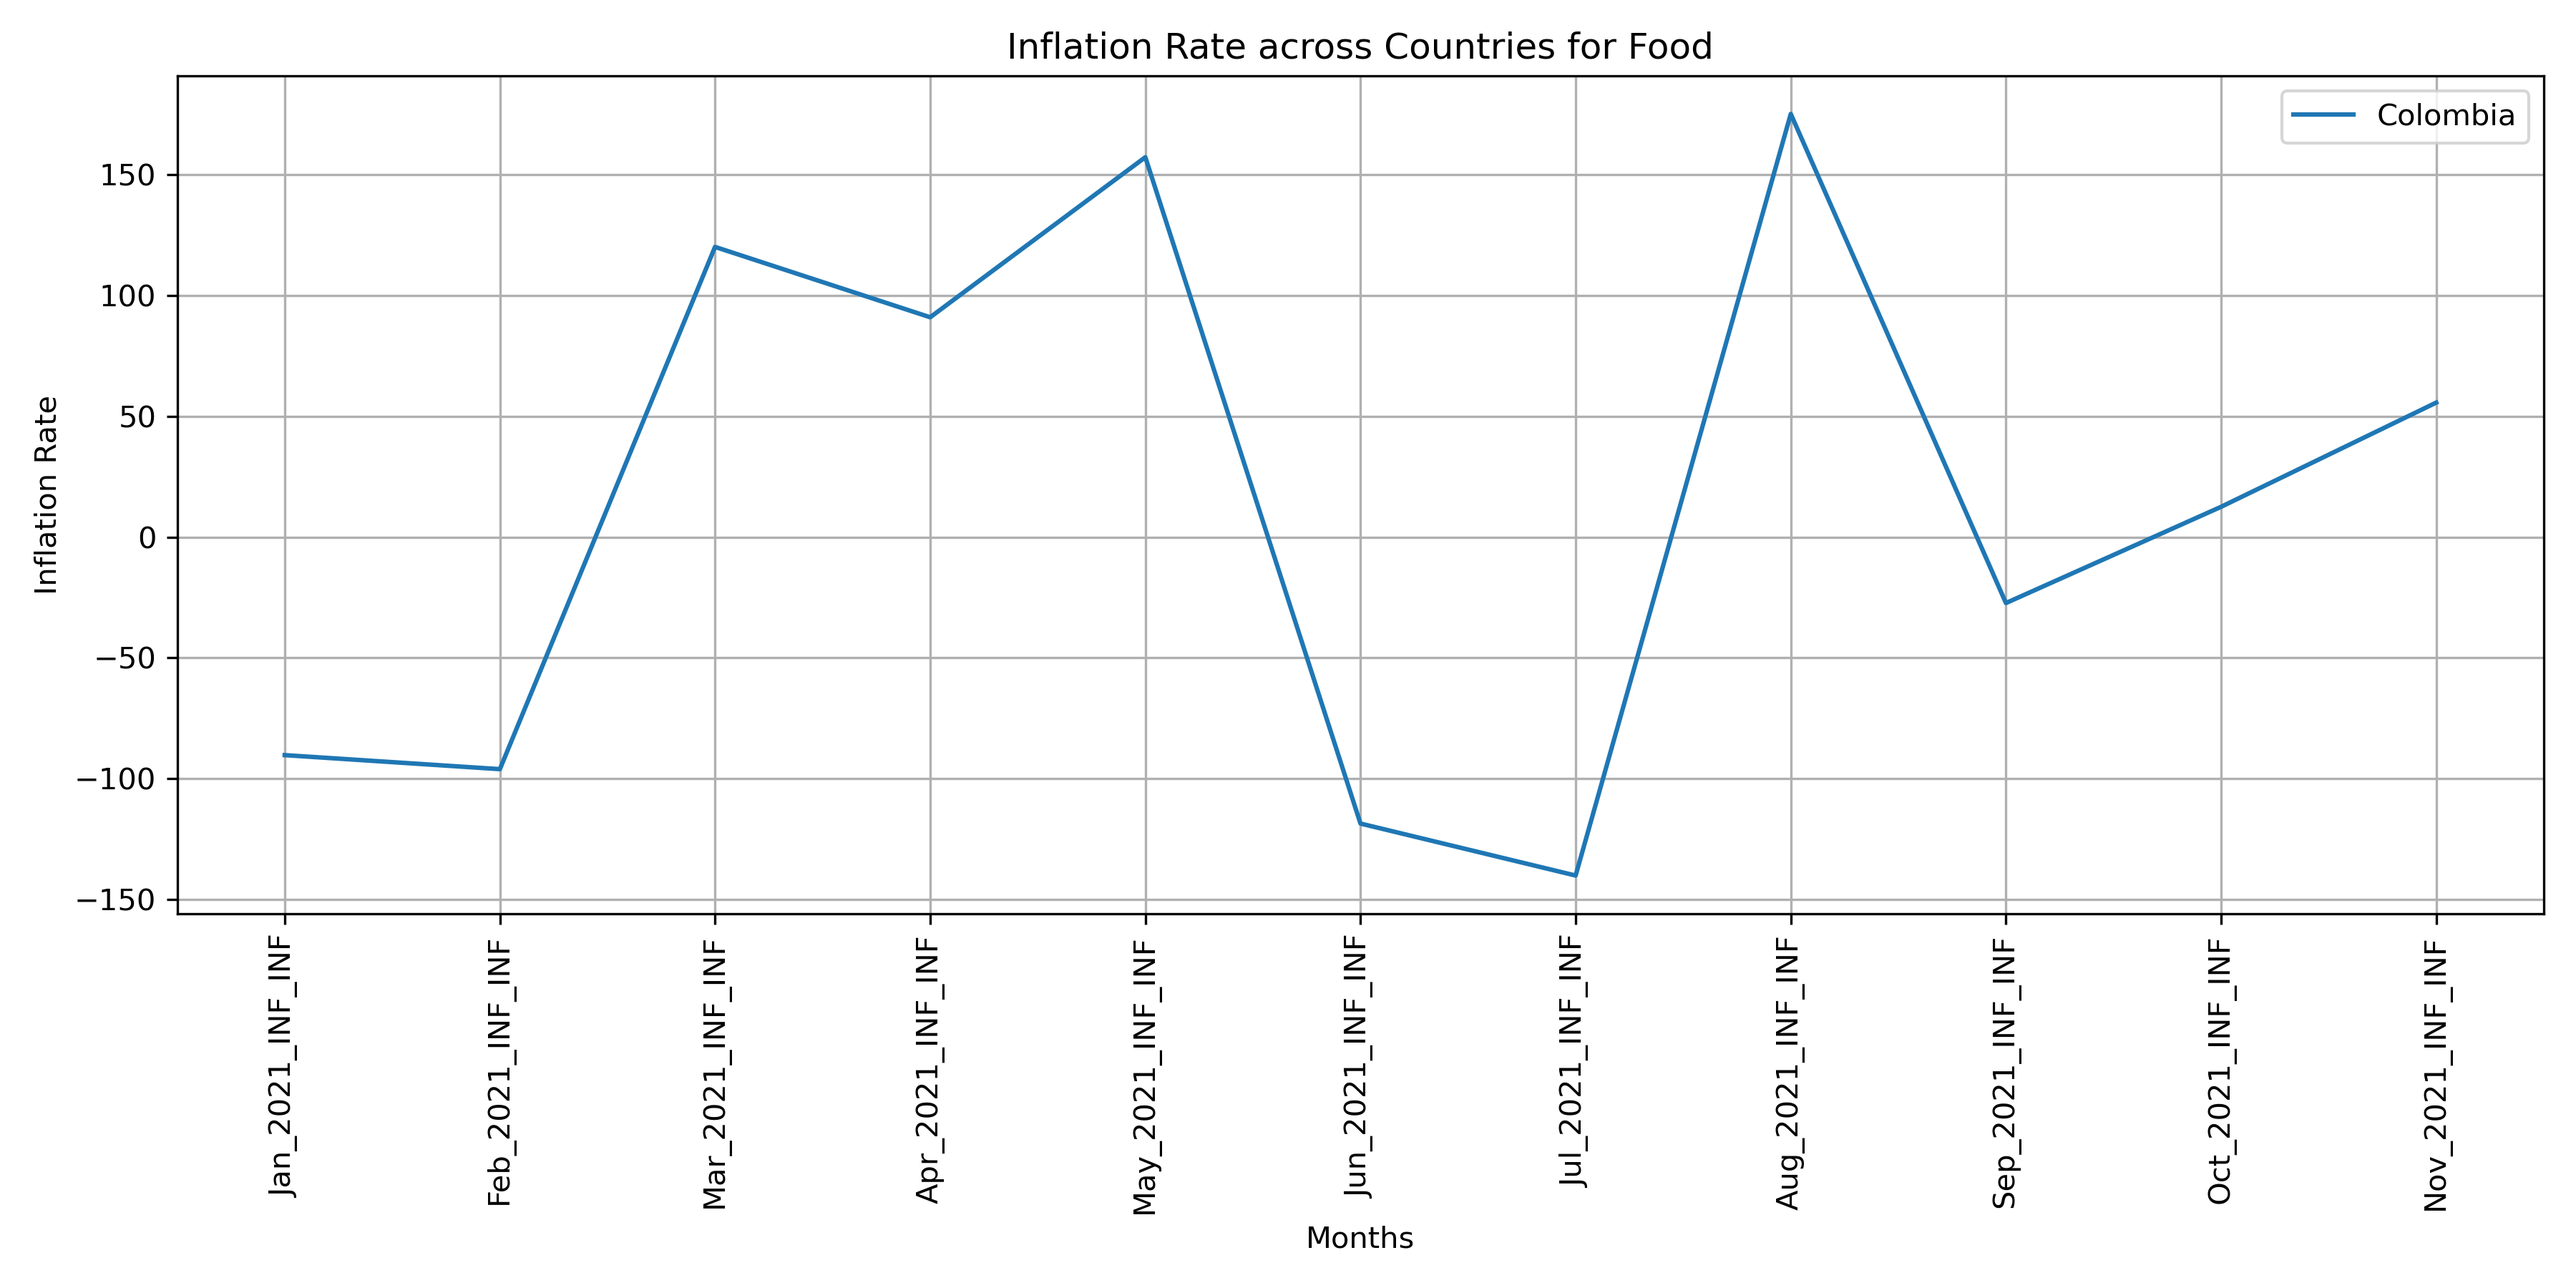
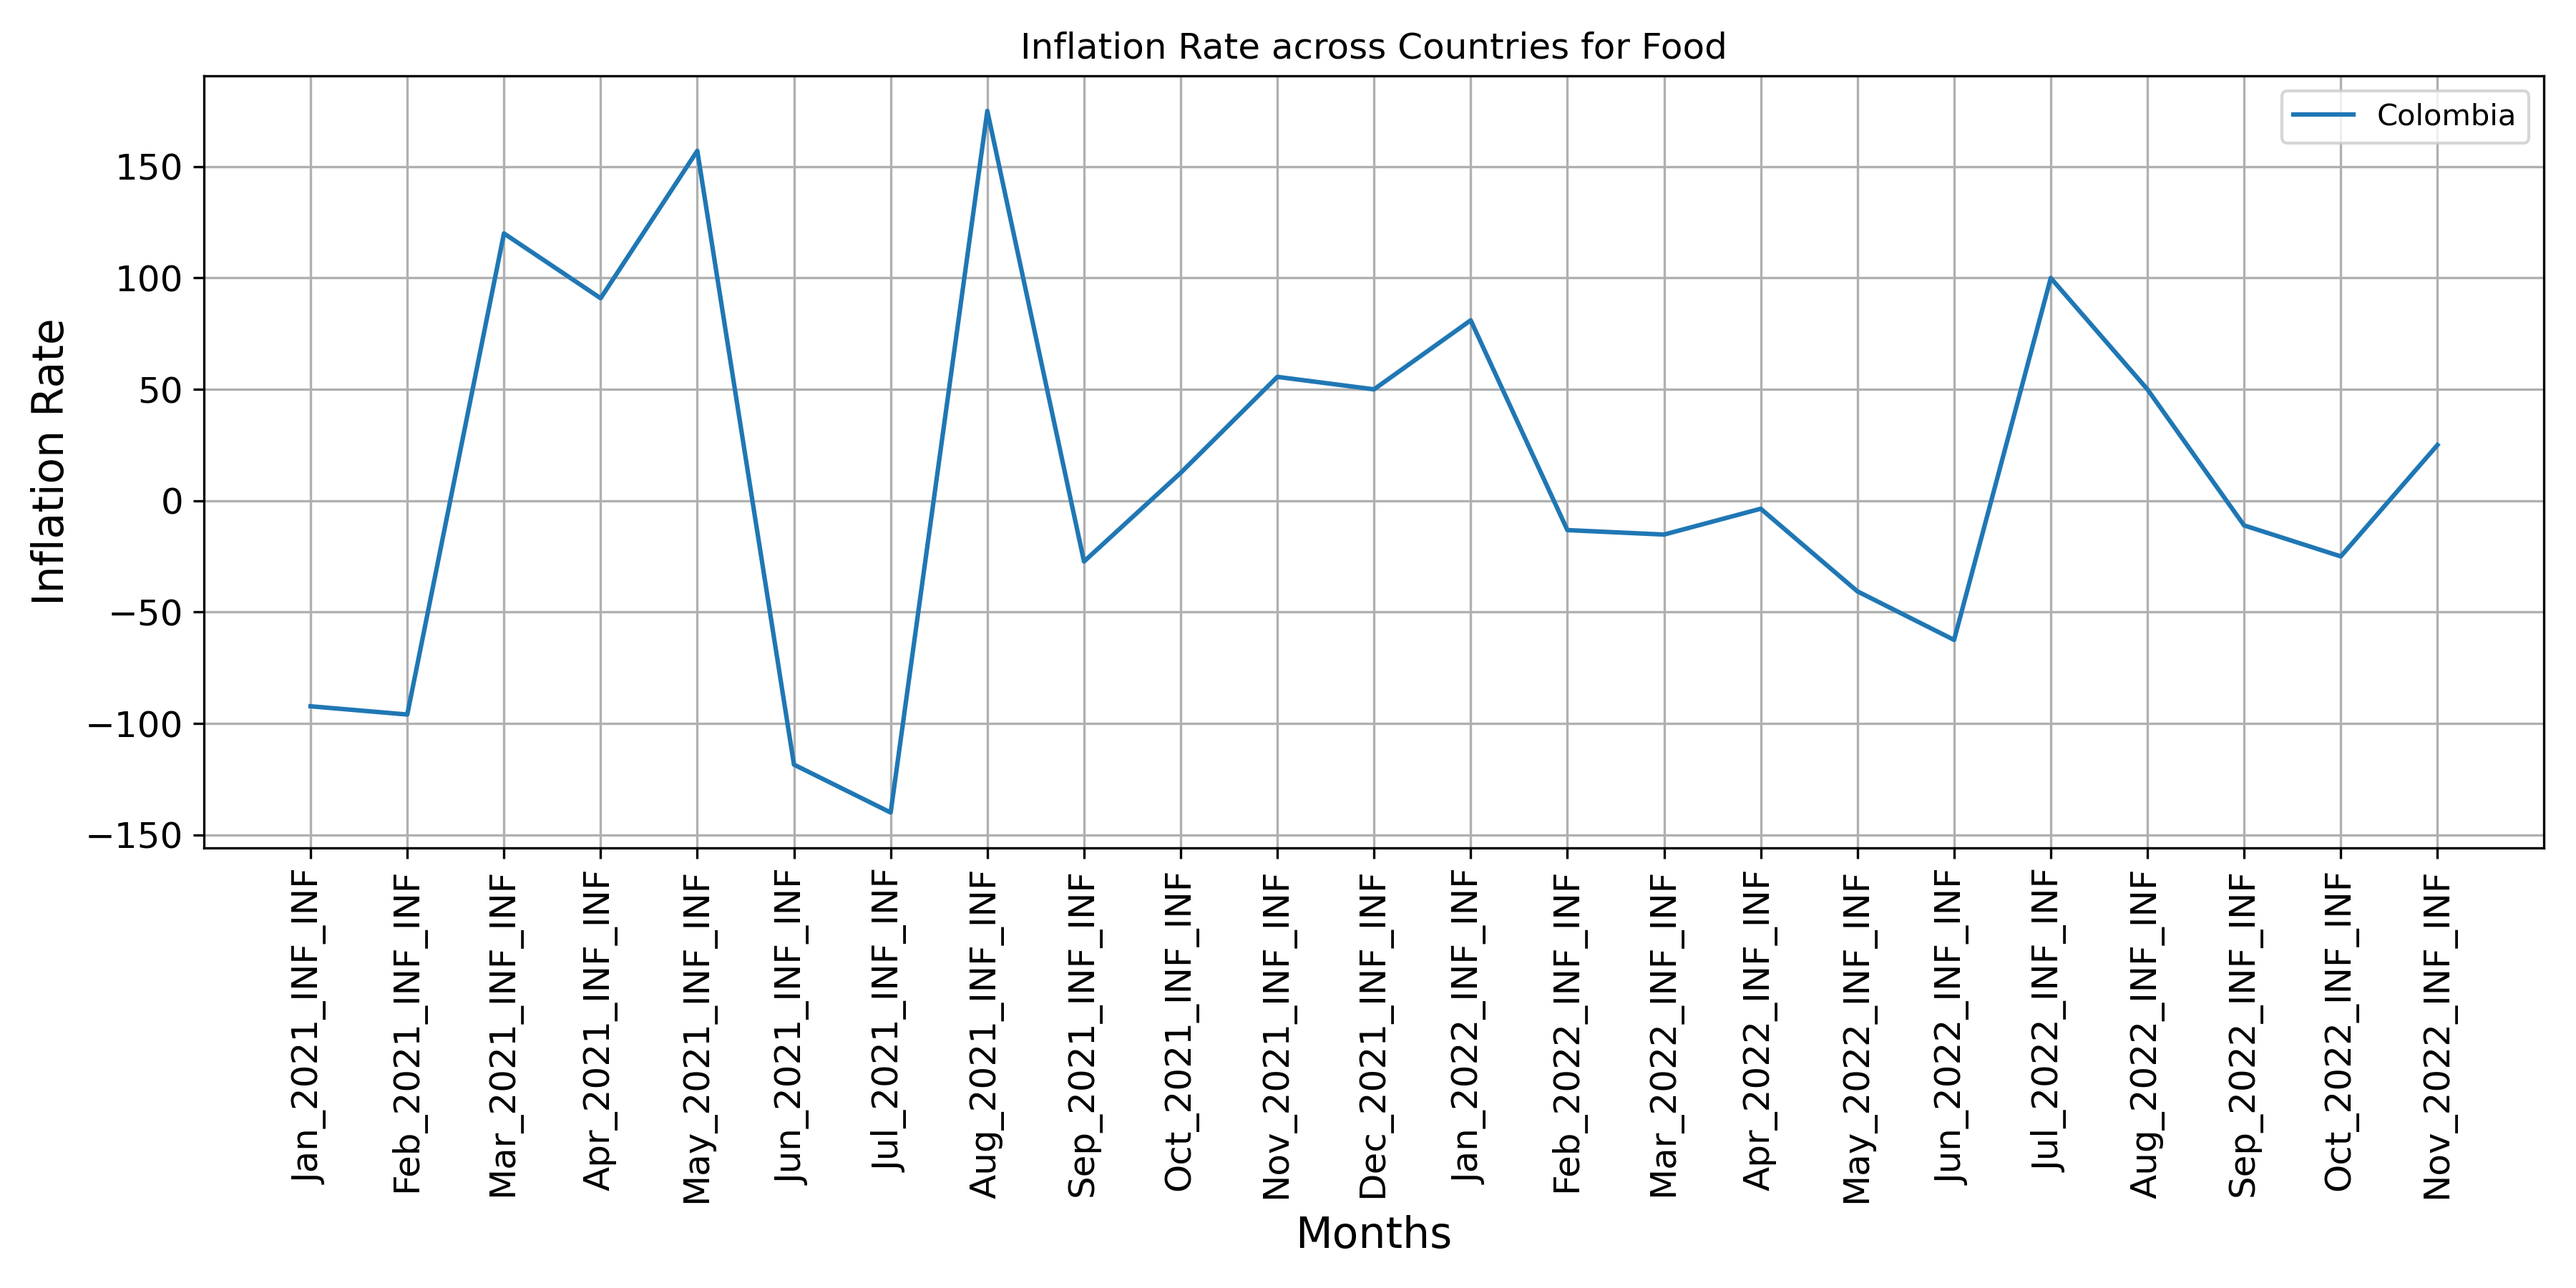
add yaml files and configuration for plots

diff --git a/bin/plotter.py b/bin/plotter.py
@@ -27,6 +27,8 @@ contact email: camelocruz@uni-potsdam.de, kar@uni-potsdam.de
 import os
 import sys
 import argparse
+import yaml
+import matplotlib as mpl
 from analysis import Analyser
 from matplotlib import pyplot as plt
 
@@ -92,6 +94,27 @@ def main(args):
     
     analyser = Analyser()
     
+    #working directories
+    current_dir = os.path.dirname(__file__)
+    results_dir = os.path.abspath(os.path.join(current_dir, '..', 'results'))
+    bin_dir = os.path.abspath(os.path.dirname(__file__))
+    
+    #set plot config if given
+    if args.plotparams:
+        try:
+            assert args.plotparams in ('bigplot', 'smallplot')
+            if args.plotparams == 'bigplot':
+                file = os.path.abspath(os.path.join(bin_dir, 'bigplot.yml'))
+            if args.plotparams == 'smallplot':
+                file = os.path.abspath(os.path.join(bin_dir, 'smallplot.yml'))
+            with open(file, 'r') as reader:
+                plot_params = yaml.load(reader, Loader=yaml.BaseLoader)
+            
+            for param, value in plot_params.items():
+                mpl.rcParams[param] = value
+        except AssertionError:
+            sys.exit('options for plotparams are only bigplot or smallplot')
+            
     #type of analysis
     total = (args.analysis == 'total')
     product = (args.analysis == 'product')
@@ -101,9 +124,6 @@ def main(args):
     bar = (args.graphic == 'bar')
     line = (args.graphic == 'line')
     
-    #working directories
-    current_dir = os.path.dirname(__file__)
-    results_dir = os.path.abspath(os.path.join(current_dir, '..', 'results'))
     
     start,stop = args.time
     
@@ -171,6 +191,8 @@ if __name__ == '__main__':
                         default='all')
     parser.add_argument('-a', '--analysis', type=str, help='type of analysis: total or product',
                         required=True)
+    parser.add_argument('--plotparams', type=str, help='Matplotlib parameters (YAML file) options: big',
+                        default=None)
     
     args = parser.parse_args()
     
